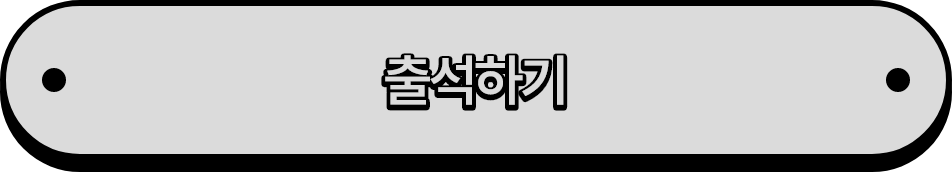
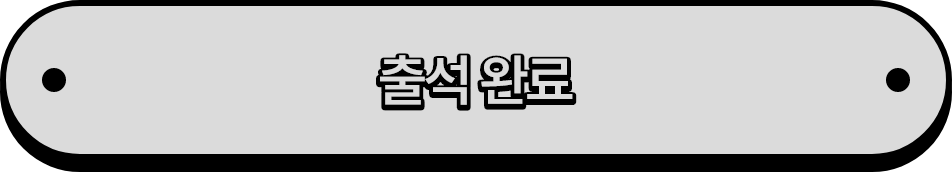
텍스트 수정. 이미지 수정. 안내 문구 추가.

Changed region(s): [[0.396, 0.2907, 0.6092, 0.6395]]

diff --git a/event/ev_250714_datacoupon/html/ev_datacoupon_250714.html b/event/ev_250714_datacoupon/html/ev_datacoupon_250714.html
@@ -58,7 +58,7 @@
 		.ev_benefit_wrap .benefit .txt_wrap p strong {font-weight:700;}
 		.ev_benefit_wrap .benefit .txt_wrap p strong.c01 {color:#0965FF;}
 		.ev_benefit_wrap .benefit .txt_wrap p strong.c02 {color:#00704A;}
-		.ev_benefit_wrap .benefit .txt_wrap small {color:#B0B1BC; font-size:1em; line-height:1.20833em;}
+		.ev_benefit_wrap .benefit .txt_wrap small {color:#000; font-size:1em; line-height:1.20833em; font-weight:700;}
 
 		.ev_benefit_wrap .benefit .img .flip-box {width:10.91666em; margin:0 auto;}
 		.ev_benefit_wrap .benefit .img .flip-box .flip-box-inner {position:relative; width:100%; height:7.5em; text-align:center; transition:transform 0.8s; transform-style:preserve-3d; animation-delay:0.2s;}
@@ -170,7 +170,7 @@
 						<div class="tit"><strong><img src="../images/ev_250714_tit2.png" alt="참여 방법" /></strong></div>
 						<div class="con">
 							<p>이벤트 기간 동안<br />매일 <strong>‘출석하기’ 버튼을 클릭</strong>해주세요.</p>
-							<small>(출석 인정 시간 : 매일 00:00 ~23:59)</small>
+							<small>(출석 인정 시간 : 매일 00:00~23:59)</small>
 						</div>
 					</div>
 				</div>
@@ -226,7 +226,6 @@
 							추첨을 통해 <br />
 							100명에게 <strong class="c02">스타벅스 1만원권</strong>을 쏩니다
 						</p>
-						<small>(*1인당 최대 지급량 : 5GB)</small>
 					</div>
 				</div>
 				<!-- // benefit -->
@@ -302,7 +301,7 @@
 				<div class="count_wrap">
 					<p>
 						지금까지 총<br>
-						<strong>%누적 응모자 수%</strong>명이<br>
+						<strong>%누적 참여자 수%</strong>명이<br>
 						<span>참여중이에요</span>
 					</p>
 				</div>
@@ -345,8 +344,9 @@
 						<li><p>이벤트 기간 동안 30일 모두 출석한 참여자에 한해 데이터 상품권이 지급됩니다.</p></li>
 						<li><p>총 1,000GB 데이터 상품권은 해당 조건을 충족한 인원끼리 균등 분배되며, 1인당 최대 5GB까지 지급됩니다.</p></li>
 						<li><p>당첨자는 이벤트 종료 후 당첨자 발표 페이지에서 당첨자 대상 여부 및 지급 데이터 용량을 확인하실 수 있습니다. (9월 발표 예정)</p></li>
+						<li><p>‘혜택 2’ 경품 지급은 PASS 기프트샵 쿠폰 형태 또는 SMS 쿠폰 형태로 제공되며, 현금 전환은 불가합니다.</p></li>
 						<li><p>이벤트 페이지 내 ‘누적 참여자 수’는 매일 00시에 전일 기준으로 갱신된 수치입니다.</p></li>
-						<li><p>당첨자 발표 시점에 LG U+ 통신사 이용 중인 경우에만 데이터 상품권 지급이 가능하며, 통신사 변경 등으로 인해 조건이 충족되지 않을 경우 경품 지급이 제한될 수 있습니다.</p></li>
+						<li><p>당첨자 발표 시점에 LG U+ 통신사를 이용 중인 경우에만 데이터 상품권 지급이 가능하며, 통신사 변경 등으로 인해 조건이 충족되지 않을 경우 경품 지급이 제한될 수 있습니다.</p></li>
 						<li><p>하나의 계정(또는 기기)으로만 참여 가능하며, 중복 참여, 매크로·비정상적인 방식으로의 참여는 무효 처리될 수 있습니다.</p></li>
 						<li><p>이벤트 운영 및 보상 내용은 당사 사정에 따라 변경될 수 있으며, 변경 시 사전 또는 사후 고지됩니다.</p></li>
 					</ul>
